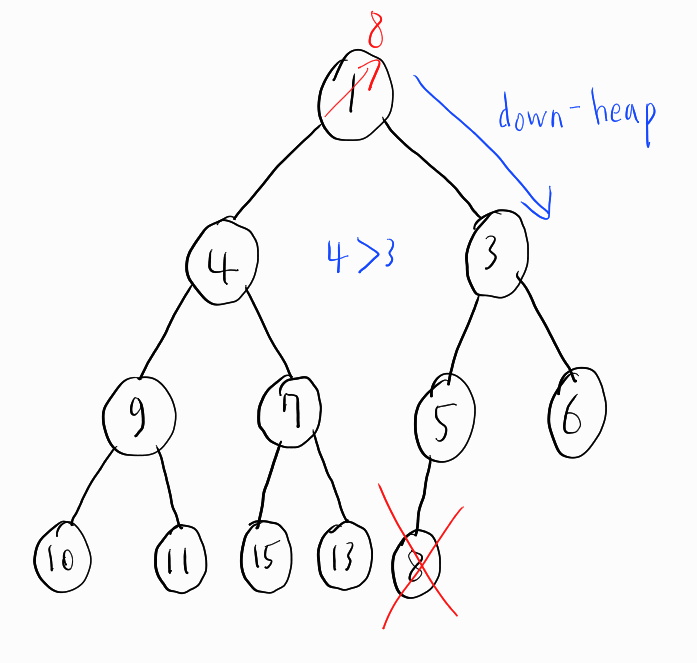
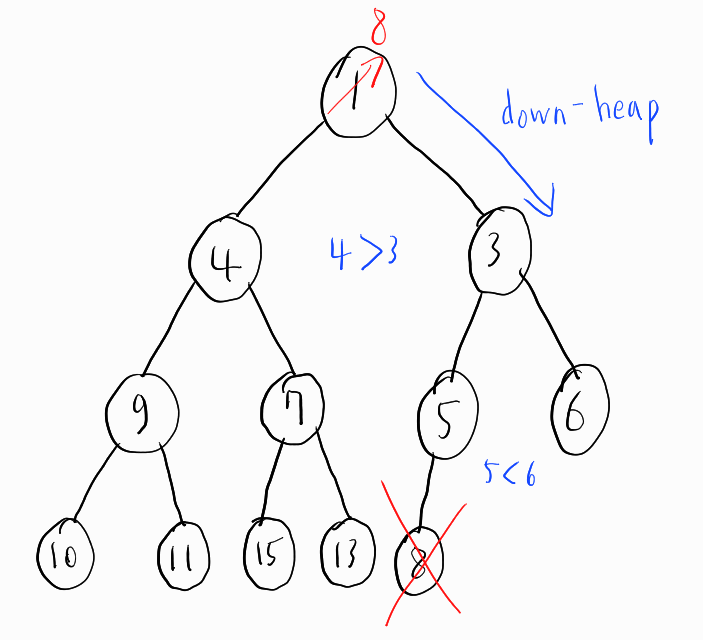
힙 오타, 사진 수정

diff --git a/data_structure_notes/_posts/2024-05-17-18. Priority Queue.html b/data_structure_notes/_posts/2024-05-17-18. Priority Queue.html
@@ -1,1 +1,1 @@
-<head><title></title><meta charset="utf-8"><link rel="stylesheet" href="./styles.css"></head><body class="light-theme blue_sky" style="padding: 20px;"><div class="shine-editor"><h1>2024-05-17-18. Priority Queue</h1><h2>Priority Queue (우선순위 큐)</h2><div>내부 원소들에 우선순위가 있는 큐이다.</div><div>일반적인 큐는 가장 먼저 큐에 들어온 원소가 가장 먼저 나가는 반면, 우선순위 큐에서는&nbsp;<span class="shine-text-red">우선순위가 가장 높은 원소가 가장 먼저 나온다</span>.</div><div><br></div><div><br></div><h2>Priority Queue의 최단 연산 시간</h2><div>우선 순위 큐의 삽입과 삭제 연산 시간의 합은 O(logn)보다 빠를 수 없다.</div><div>정렬에 걸리는 시간은 O(nlogn)보다 빠를 수 없다는 것이 알려져 있는데, 이를 이용하면 증명 가능하다.</div><div><br></div><div>우선 순위 큐를 사용하여 정렬을 하는 것이 가능하다. 원소를 전부 우선 순위 큐에 Insert하고, 먼저 Delete되는 것부터 순서대로 나열하면, 우선순위대로 정렬이 완료된다.</div><div>그런데 우선 순위 큐의 Insert, Delete가 O(logn)보다 적게 걸린다면, 위 과정에서 Insert, Delete를 n번 반복하므로, 정렬하는 데 O(nlogn) 보다 적게 걸리게 되는 모순이 발생한다.</div><div><br></div><div><br></div><h2>Priority Queue의 구현 방법은?</h2><div><ul><li>정렬된 배열</li><ul><li>배열을 우선순위가 낮은 원소부터 높은 원소 순으로 정렬한다.</li><li>삭제는 끝부분의 원소 하나를 빼면 되므로 빠르다.</li><li>그러나 우선순위가 낮은 원소를 삽입되면 그보다 우선순위가 높은 원소를 뒤로 옮겨야 하므로 시간이 오래 걸린다.</li></ul></ul></div><div><br></div><div><ul><li>정렬되지 않은 배열</li><ul><li>삽입은 맨 뒤에 하면 되므로 빠르다.</li><li>그러나 삭제할 때 가장 우선순위가 높은 것을 선형 탐색으로 찾아야 하므로 오랜 시간이 걸린다.</li></ul></ul></div><div><br></div><div><br></div><h2>Balanced BST를 이용한 구현</h2><div>AVL 트리, 2-3트리, Red-Black 트리를 이용해 힙을 구현해 보자.</div><div><br></div><div><ul><li>트리가 우선순위대로 정렬되도록 하자. 즉 각 노드의 왼쪽 서브트리엔 부모 노드보다 우선순위가 높은 키값들이 오고, 오른쪽 서브트리에는 우선순위가 낮은 키값들이 오도록 한다.</li><li>AVL 트리, 2-3트리, Red-Black 트리를 이용하면 트리 높이가 O(logn)이므로, 삽입에 O(logn)이 걸린다.</li><li>또한 우선순위가 가장 높은 키를 찾으려면 left로만 끝까지 가면 된다. 따라서 삭제에도 O(logn)이 걸린다.</li></ul></div><div><br></div><div><br></div><h2>다른 구현의 필요성</h2><div>위와 같이 균형 이진 탐색 트리를 이용해도 O(logn)시간에 작동하는 우선 순위 큐를 만들 수 있다.</div><div>그러나 Heap을 이용하여 구현하는 것이 더 효율적이다. Heap을 이용해도 빅오 표기법으로는 O(logn)으로 같은 시간이 걸리지만, 실제 수행 시간은 몇배 더 빠르다.</div><div><br></div><div>이는 BST는 전체를 정렬된 상태로 유지하는 반면, Priority Queue는 우선순위가 가장 높은 원소 하나만 알면 되기 때문이다.</div><div>그 외의 원소들은&nbsp;우선순위가 가장 높은 원소가 delete되었을 때, 우선순위가 다음으로 높은 것을 빨리 찾을 수 있도록 대략적인 정렬만 되어 있어도 문제없다.</div><div><br></div><div>Heap은 완전한 정렬 대신 대략적인 정렬만 하면 되므로, 수행 시간이 더 빠르다.</div><div><br></div><div><br></div><h2>Heap</h2><div>세 가지 특수한 이진 트리가 있다.</div><div><ul><li>Full Binary Tree</li><ul><li>모든 노드의 자식 개수가 두 개 또는 0개인 이진 트리이다.</li><li>자식이 1개인 노드는 없다.</li></ul><li>Perfect Binary Tree</li><ul><li>완벽하게 가득 찬 이진 트리.</li><li>각 레벨마다 최대 개수의 노드가 존재한다.</li><li>즉 노드가 0개가 아닌 모든 레벨 n에 대해, 2<sup>n</sup>개의 노드가 존재한다.</li></ul><li>Complete Binary Tree</li><ul><li>마지막 레벨 위까지는 Perfect Binary Tree와 같지만, 마지막 레벨의 노드는 다 안 차있을 수도 있다.</li><li>단, 마지막 레벨에서 노드가 왼쪽부터 채워진다.</li><li><img width="457px" src="Files/image%2094.png"><br></li></ul></ul><div><br></div></div><div>Heap은 Complete Binary Tree로 구성된다.</div><div>또한 부모의 키값이 자식 노드의 키값보다 작아야 한다.</div><div>단, 왼쪽 자식과 오른쪽 자식의 대소 관계는 고려하지 않아도 된다.</div><div><br></div><div><img width="453px" src="Files/image%2095.png"><br></div><div>Heap에서는 가장 작은 키가 루트 노드에 존재하게 된다.</div><div>두 번째로 작은 키값은 루트 노드의 자식 노드 중 하나에 있다.</div><div>또한 아래로 내려갈수록 키값이 커진다.</div><div><br></div><div>키값으로 우선순위를 저장하면, Heap을 통해 우선순위 큐를 구현할 수 있다.</div><div><br></div><div><br></div><h2>배열을 이용한 Heap 구현</h2><div><ul><li>루트 노드는 인덱스 1에 저장된다.</li><li>인덱스 i 노드의 왼쪽 자식 노드는 인덱스 2i, 오른쪽 자식 노드는 인덱스 2i+1에 저장한다.</li><li>그러면 인덱스 i의 부모 노드는 인덱스 i/2 가 된다.</li></ul><div><br></div><div>배열에서 사이에 빈칸을 두지 않고 왼쪽부터 채우면 Complete Binary Tree 가 된다.</div></div><div><br></div><div><br></div><h2>Heap Insert</h2><div>먼저 Complete Binary Tree가 유지되도록, 마지막 레벨의 가장 오른쪽 원소의 바로 오른쪽(배열로 구현한 경우, 배열의 마지막 원소 다음)에 노드를 삽입한다.</div><div><img width="365px" src="Files/image%2096.png"><img width="350px" src="Files/image%2097.png"><br></div><div>만약 삽입된 노드가 부모 노드보다 작다면, 부모와 위치를 바꾼다. (부모의 원래 있던 자식은 부모보다 크므로, 삽입된 것보다도 당연히 크다)</div><div>부모 노드가 삽입된 노드보다 작을 때까지, 부모 노드와 위치를 바꾸는 것을 반복하며 위로 올려보낸다. 이를 up-heap 과정이라고 한다.</div><div><br></div><div><br></div><h2>Heap Delete</h2><div>루트 노드를 delete하고, 마지막 레벨의 끝에 있는 원소를 루트로 옮긴다.</div><div><img width="365px" src="Files/image%2098.png"><img width="356px" src="Files/image%2099.png"><br></div><div>옮겨진 노드의 자식 중 자신보다 작은 것이 있다면, 두 자식 중 더 작은 것과 위치를 바꾼다.</div><div>두 자식이 둘다 자신보다 작을 때까지, 이러한 과정을 반복하며 노드를 아래쪽으로 옮긴다. 이를 down-heap 과정이라고 한다.</div></div></body>
+<head><title></title><meta charset="utf-8"><link rel="stylesheet" href="./styles.css"></head><body class="light-theme blue_sky" style="padding: 20px;"><div class="shine-editor"><h1>2024-05-17-18. Priority Queue</h1><h2>Priority Queue (우선순위 큐)</h2><div>내부 원소들에 우선순위가 있는 큐이다.</div><div>일반적인 큐는 가장 먼저 큐에 들어온 원소가 가장 먼저 나가는 반면, 우선순위 큐에서는&nbsp;<span class="shine-text-red">우선순위가 가장 높은 원소가 가장 먼저 나온다</span>.</div><div><br></div><div><br></div><h2>Priority Queue의 최단 연산 시간</h2><div>우선 순위 큐의 삽입과 삭제 연산 시간의 합은 O(logn)보다 빠를 수 없다.</div><div>정렬에 걸리는 시간은 O(nlogn)보다 빠를 수 없다는 것이 알려져 있는데, 이를 이용하면 증명 가능하다.</div><div><br></div><div>우선 순위 큐를 사용하여 정렬을 하는 것이 가능하다. 원소를 전부 우선 순위 큐에 Insert하고, 먼저 Delete되는 것부터 순서대로 나열하면, 우선순위대로 정렬이 완료된다.</div><div>그런데 우선 순위 큐의 Insert, Delete가 O(logn)보다 적게 걸린다면, 위 과정에서 Insert, Delete를 n번 반복하므로, 정렬하는 데 O(nlogn) 보다 적게 걸리게 되는 모순이 발생한다.</div><div><br></div><div><br></div><h2>Priority Queue의 구현 방법은?</h2><div><ul><li>정렬된 배열</li><ul><li>배열을 우선순위가 낮은 원소부터 높은 원소 순으로 정렬한다.</li><li>삭제는 끝부분의 원소 하나를 빼면 되므로 빠르다.</li><li>그러나 우선순위가 낮은 원소가 삽입되면 그보다 우선순위가 높은 원소를 뒤로 옮겨야 하므로 시간이 오래 걸린다.</li></ul></ul></div><div><br></div><div><ul><li>정렬되지 않은 배열</li><ul><li>삽입은 맨 뒤에 하면 되므로 빠르다.</li><li>그러나 삭제할 때 가장 우선순위가 높은 것을 선형 탐색으로 찾아야 하므로 오랜 시간이 걸린다.</li></ul></ul></div><div><br></div><div><br></div><h2>Balanced BST를 이용한 구현</h2><div>AVL 트리, 2-3트리, Red-Black 트리를 이용해 힙을 구현해 보자.</div><div><br></div><div><ul><li>트리가 우선순위대로 정렬되도록 하자. 즉 각 노드의 왼쪽 서브트리엔 부모 노드보다 우선순위가 높은 키값들이 오고, 오른쪽 서브트리에는 우선순위가 낮은 키값들이 오도록 한다.</li><li>AVL 트리, 2-3트리, Red-Black 트리를 이용하면 트리 높이가 O(logn)이므로, 삽입에 O(logn)이 걸린다.</li><li>또한 우선순위가 가장 높은 키를 찾으려면 left로만 끝까지 가면 된다. 따라서 삭제에도 O(logn)이 걸린다.</li></ul></div><div><br></div><div><br></div><h2>다른 구현의 필요성</h2><div>위와 같이 균형 이진 탐색 트리를 이용해도 O(logn)시간에 작동하는 우선 순위 큐를 만들 수 있다.</div><div>그러나 Heap을 이용하여 구현하는 것이 더 효율적이다. Heap을 이용해도 빅오 표기법으로는 O(logn)으로 같은 시간이 걸리지만, 실제 수행 시간은 몇배 더 빠르다.</div><div><br></div><div>이는 BST는 전체를 정렬된 상태로 유지하는 반면, Priority Queue는 우선순위가 가장 높은 원소 하나만 알면 되기 때문이다.</div><div>그 외의 원소들은&nbsp;우선순위가 가장 높은 원소가 delete되었을 때, 우선순위가 다음으로 높은 것을 빨리 찾을 수 있도록 대략적인 정렬만 되어 있어도 문제없다.</div><div><br></div><div>Heap은 완전한 정렬 대신 대략적인 정렬만 하면 되므로, 수행 시간이 더 빠르다.</div><div><br></div><div><br></div><h2>Heap</h2><div>세 가지 특수한 이진 트리가 있다.</div><div><ul><li>Full Binary Tree</li><ul><li>모든 노드의 자식 개수가 두 개 또는 0개인 이진 트리이다.</li><li>자식이 1개인 노드는 없다.</li></ul><li>Perfect Binary Tree</li><ul><li>완벽하게 가득 찬 이진 트리.</li><li>각 레벨마다 최대 개수의 노드가 존재한다.</li><li>즉 노드가 0개가 아닌 모든 레벨 n에 대해, 2<sup>n</sup>개의 노드가 존재한다.</li></ul><li>Complete Binary Tree</li><ul><li>마지막 레벨 위까지는 Perfect Binary Tree와 같지만, 마지막 레벨의 노드는 다 안 차있을 수도 있다.</li><li>단, 마지막 레벨에서 노드가 왼쪽부터 채워진다.</li><li><img width="457px" src="Files/image%2094.png"><br></li></ul></ul><div><br></div></div><div>Heap은 Complete Binary Tree로 구성된다.</div><div>또한 부모의 키값이 자식 노드의 키값보다 작아야 한다.</div><div>단, 왼쪽 자식과 오른쪽 자식의 대소 관계는 고려하지 않아도 된다.</div><div><br></div><div><img width="453px" src="Files/image%2095.png"><br></div><div>Heap에서는 가장 작은 키가 루트 노드에 존재하게 된다.</div><div>두 번째로 작은 키값은 루트 노드의 자식 노드 중 하나에 있다.</div><div>또한 아래로 내려갈수록 키값이 커진다.</div><div><br></div><div>키값으로 우선순위를 저장하면, Heap을 통해 우선순위 큐를 구현할 수 있다.</div><div><br></div><div><br></div><h2>배열을 이용한 Heap 구현</h2><div><ul><li>루트 노드는 인덱스 1에 저장된다.</li><li>인덱스 i 노드의 왼쪽 자식 노드는 인덱스 2i, 오른쪽 자식 노드는 인덱스 2i+1에 저장한다.</li><li>그러면 인덱스 i의 부모 노드는 인덱스 i/2 가 된다.</li></ul><div><br></div><div>배열에서 사이에 빈칸을 두지 않고 왼쪽부터 채우면 Complete Binary Tree 가 된다.</div></div><div><br></div><div><br></div><h2>Heap Insert</h2><div>먼저 Complete Binary Tree가 유지되도록, 마지막 레벨의 가장 오른쪽 원소의 바로 오른쪽(배열로 구현한 경우, 배열의 마지막 원소 다음)에 노드를 삽입한다.</div><div><img width="365px" src="Files/image%2096.png"><img width="350px" src="Files/image%2097.png"><br></div><div>만약 삽입된 노드가 부모 노드보다 작다면, 부모와 위치를 바꾼다. (부모의 원래 있던 자식은 부모보다 크므로, 삽입된 것보다도 당연히 크다)</div><div>부모 노드가 삽입된 노드보다 작을 때까지, 부모 노드와 위치를 바꾸는 것을 반복하며 위로 올려보낸다. 이를 up-heap 과정이라고 한다.</div><div><br></div><div><br></div><h2>Heap Delete</h2><div>루트 노드를 delete하고, 마지막 레벨의 끝에 있는 원소를 루트로 옮긴다.</div><div><img width="381px" src="Files/image%2098.png"><img width="341px" src="Files/image%2099.png"><br></div><div>옮겨진 노드의 자식 중 자신보다 작은 것이 있다면, 두 자식 중 더 작은 것과 위치를 바꾼다.</div><div>두 자식이 둘다 자신보다 클 때까지, 이러한 과정을 반복하며 노드를 아래쪽으로 옮긴다. 이를 down-heap 과정이라고 한다.</div></div></body>
